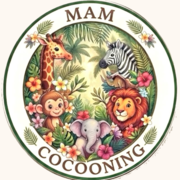
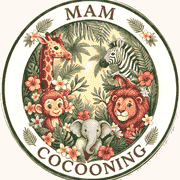
perf: rend le site fluide sur téléphone
Mesuré sur un mobile bridé (CPU 4x, 3G rapide) : la page d'accueil passait
822 Ko et saturait le GPU. Les causes, par ordre de coût :

- Les animations d'apparition posaient un filter: blur() sur chaque bloc. Les
  éléments jamais atteints par le défilement gardaient blur(6px) à vie, soit une
  vingtaine de calques floutés permanents, dont plusieurs de 88 000 à 178 000
  px². Le flou est retiré : l'opacité et le déplacement suffisent.
- L'animation des halos modifiait border-radius à chaque image, ce qui force le
  recalcul complet d'un flou de 120 px à 60 images par seconde. Le mouvement
  passe en transform seul, et sur téléphone les halos deviennent fixes, à 42 px
  de rayon.
- Le favicon pesait 441 Ko, téléchargé sur chaque page : 4 Ko après
  rééchantillonnage en palette.
- Nuages réduits de 5 à 2 sur téléphone, backdrop-blur de la navigation ramené
  de 24 à 8 px.

Résultat : 822 -> 386 Ko, 32 -> 6 éléments floutés, 22 -> 10 animations
visibles, et plus aucune animation sur un calque flouté.

Les interactions tactiles (menu, carrousel, filtres, visionneuse) ont été
vérifiées une par une : elles répondaient déjà, c'est la saccade qui donnait
l'impression que rien ne marchait.

diff --git a/app/globals.css b/app/globals.css
@@ -121,9 +121,9 @@
 
 /* ── Keyframes ───────────────────────────────────────────────────────────── */
 @keyframes blob-drift {
-  0%, 100% { border-radius: 42% 58% 61% 39% / 47% 43% 57% 53%; transform: translate3d(0, 0, 0) rotate(0deg); }
-  33%      { border-radius: 63% 37% 41% 59% / 38% 62% 38% 62%; transform: translate3d(2%, -3%, 0) rotate(4deg); }
-  66%      { border-radius: 38% 62% 55% 45% / 58% 38% 62% 42%; transform: translate3d(-2%, 2%, 0) rotate(-3deg); }
+  0%, 100% { transform: translate3d(0, 0, 0) scale(1); }
+  33%      { transform: translate3d(3%, -4%, 0) scale(1.06); }
+  66%      { transform: translate3d(-3%, 3%, 0) scale(0.96); }
 }
 
 @keyframes gentle-float {
@@ -152,12 +152,34 @@
   50%      { opacity: 0.85; transform: scale(1.06); }
 }
 
-.animate-blob-drift { animation: blob-drift 22s var(--ease-soft) infinite; }
+.animate-blob-drift {
+  border-radius: 50%;
+  animation: blob-drift 22s var(--ease-soft) infinite;
+}
 .animate-gentle-float { animation: gentle-float 7s ease-in-out infinite; }
 .animate-soft-pulse { animation: soft-pulse 6s ease-in-out infinite; }
 .animate-cloud-drift { animation: cloud-drift 90s linear infinite; }
 .animate-doodle-bob { animation: doodle-bob 8s ease-in-out infinite; }
 .animate-twinkle { animation: twinkle 4.5s ease-in-out infinite; }
+
+/* ── Phone budget ────────────────────────────────────────────────────────── */
+/*
+ * A 120px blur over a quarter-million pixels costs more than everything else on
+ * the page combined. Phones keep the shapes, at a radius they can actually
+ * composite, and stop animating them.
+ */
+@media (max-width: 767px) {
+  .animate-blob-drift {
+    animation: none;
+    filter: blur(42px) !important;
+    opacity: 0.55;
+  }
+
+  /* Two clouds read as a sky just as well as five, at a fifth of the cost. */
+  .cloud-extra {
+    display: none;
+  }
+}
 
 /* ── Motion preferences ──────────────────────────────────────────────────── */
 @media (prefers-reduced-motion: reduce) {

diff --git a/components/ui/CloudLayer.tsx b/components/ui/CloudLayer.tsx
@@ -6,15 +6,17 @@ interface CloudSpec {
   readonly opacity: string
   readonly duration: string
   readonly delay: string
+  /** Dropped on phones, where each drifting layer costs real frames. */
+  readonly isExtra?: boolean
 }
 
 /** Staggered so no two clouds ever cross the screen together. */
 const CLOUDS: readonly CloudSpec[] = [
   { top: '2%', size: 'w-32 sm:w-44', opacity: 'opacity-90', duration: '115s', delay: '-10s' },
   { top: '13%', size: 'w-20 sm:w-28', opacity: 'opacity-75', duration: '82s', delay: '-46s' },
-  { top: '24%', size: 'w-36 sm:w-52', opacity: 'opacity-60', duration: '145s', delay: '-100s' },
-  { top: '7%', size: 'w-24 sm:w-32', opacity: 'opacity-55', duration: '98s', delay: '-24s' },
-  { top: '30%', size: 'w-16 sm:w-24', opacity: 'opacity-50', duration: '70s', delay: '-58s' },
+  { top: '24%', size: 'w-36 sm:w-52', opacity: 'opacity-60', duration: '145s', delay: '-100s', isExtra: true },
+  { top: '7%', size: 'w-24 sm:w-32', opacity: 'opacity-55', duration: '98s', delay: '-24s', isExtra: true },
+  { top: '30%', size: 'w-16 sm:w-24', opacity: 'opacity-50', duration: '70s', delay: '-58s', isExtra: true },
 ]
 
 /**
@@ -27,7 +29,7 @@ export function CloudLayer({ className = '' }: { readonly className?: string }) 
       {CLOUDS.map((cloud) => (
         <Cloud
           key={`${cloud.top}-${cloud.duration}`}
-          className={`animate-cloud-drift absolute text-white drop-shadow-[0_6px_14px_rgba(120,150,170,0.18)] ${cloud.size} ${cloud.opacity}`}
+          className={`animate-cloud-drift absolute text-white ${cloud.isExtra === true ? 'cloud-extra ' : ''}${cloud.size} ${cloud.opacity}`}
           style={{
             top: cloud.top,
             animationDuration: cloud.duration,

diff --git a/components/ui/SplitText.tsx b/components/ui/SplitText.tsx
@@ -24,8 +24,8 @@ export function SplitText({ text, className, delay = 0 }: SplitTextProps) {
           // The class goes on each word: a gradient clipped to text only paints
           // the box it is declared on, and every word is its own box here.
           className={`inline-block whitespace-pre ${className ?? ''}`}
-          initial={{ opacity: 0, y: '0.45em', filter: 'blur(8px)' }}
-          animate={{ opacity: 1, y: 0, filter: 'blur(0px)' }}
+          initial={{ opacity: 0, y: '0.45em' }}
+          animate={{ opacity: 1, y: 0 }}
           transition={{
             duration: 0.7,
             delay: delay + index * 0.055,

diff --git a/components/layout/Header.tsx b/components/layout/Header.tsx
@@ -42,7 +42,7 @@ export function Header() {
             : '0 0 0 0 rgba(0,0,0,0)',
         }}
         transition={{ duration: 0.45, ease: [0.22, 1, 0.36, 1] }}
-        className="mx-auto flex max-w-5xl items-center justify-between gap-4 rounded-full py-2 pr-2.5 pl-3 ring-1 ring-clay/45 backdrop-blur-xl"
+        className="mx-auto flex max-w-5xl items-center justify-between gap-4 rounded-full py-2 pr-2.5 pl-3 ring-1 ring-clay/45 backdrop-blur-sm md:backdrop-blur-xl"
       >
         <Link href="/" className="group flex items-center gap-2.5" aria-label={`${SITE.name}, accueil`}>
           <motion.span

diff --git a/components/ui/Reveal.tsx b/components/ui/Reveal.tsx
@@ -28,8 +28,8 @@ export function Reveal({ children, delay = 0, direction = 'up', className }: Rev
   return (
     <motion.div
       className={className}
-      initial={{ opacity: 0, ...offset, filter: 'blur(6px)' }}
-      whileInView={{ opacity: 1, x: 0, y: 0, filter: 'blur(0px)' }}
+      initial={{ opacity: 0, ...offset }}
+      whileInView={{ opacity: 1, x: 0, y: 0 }}
       viewport={{ once: true, margin: '-80px' }}
       transition={{ duration: 0.75, delay, ease: [0.22, 1, 0.36, 1] }}
     >
